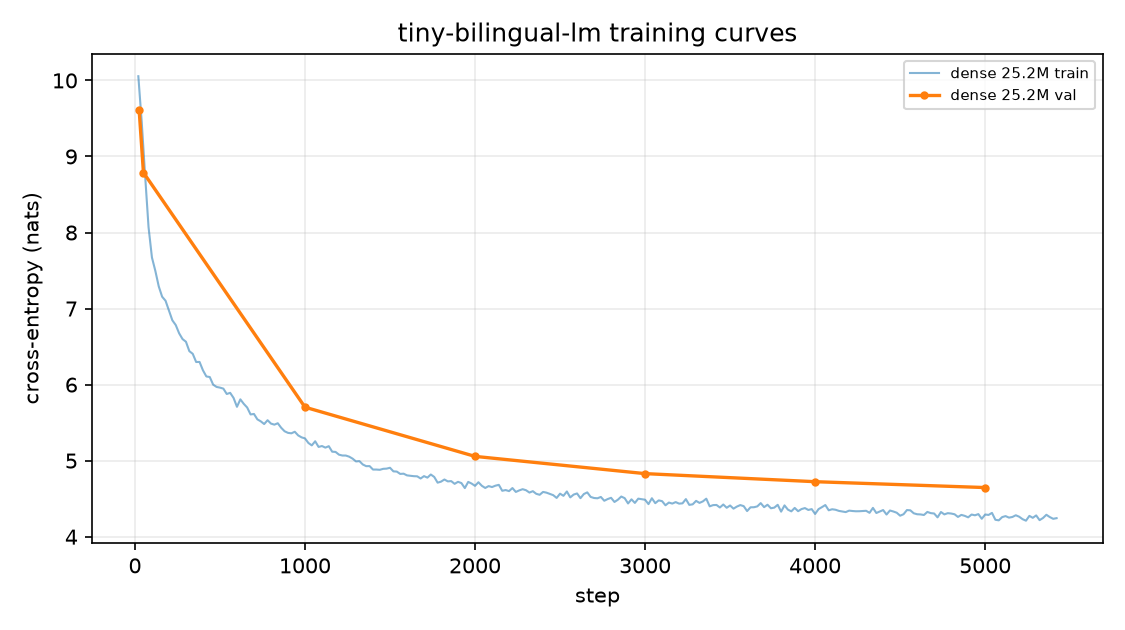
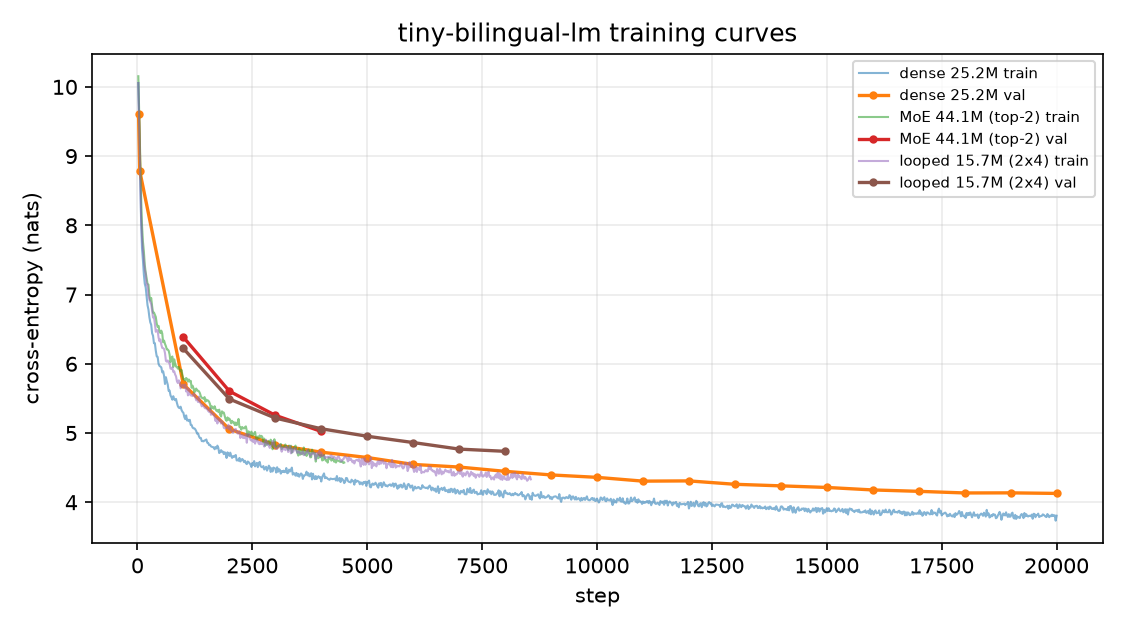
results: looped done, equal-token comparison table, README summary

diff --git a/README.md b/README.md
@@ -23,9 +23,21 @@ https://useosc.github.io/tiny-bilingual-lm/
 | packed data | 496 M train + 4 M val tokens (uint16), zh:en = 50:50 | done |
 | dense 25M | 25.2 M params, 512 ctx, 492 M tokens | **done**: val 4.098 / ppl 60.2 / BPB 1.349 |
 | MoE 4-expert | 44.1 M total params, top-2 routing + aux loss | done: val 5.069 at 49 M tokens (dense at same tokens: 5.056) |
-| looped | 2 unique layers x 4 loops (15.7 M params, 8 effective layers) | training |
+| looped | 2 unique layers x 4 loops (15.7 M params, 8 effective layers) | done: val 4.763 at 131 M tokens |
 | demo | ONNX int8 (72.5 MB) + static chat page, final dense model | **live** |
 | docs | 8 design docs with citations | done |
+
+## Results (one RTX 4050 Laptop, 6 GB)
+
+| run | params | tokens | val loss | ppl | bits/byte |
+|---|---|---|---|---|---|
+| dense | 25.2 M | 492 M | **4.098** | 60.2 | 1.349 |
+| MoE (4 experts, top-2) | 44.1 M (29.9 M active) | 49 M | 5.069 | 159.0 | 1.669 |
+| looped (2 x 4) | 15.7 M | 131 M | 4.763 | 117.1 | 1.568 |
+
+At equal tokens (~49 M) dense 5.056 ≈ MoE 5.069 > looped 5.216: at this scale
+neither MoE nor recurrence beats a plain dense model per token; MoE costs ~2x
+compute and looped saves ~38% parameters. Details in [docs/08-results.md](docs/08-results.md).
 
 ## Quick start
 

diff --git a/docs/08-results.md b/docs/08-results.md
@@ -36,9 +36,30 @@ crops; BPB uses 4.382 bytes/token.
 |---|---|
 | params | 15,730,560 |
 | effective depth | 8 |
-| tokens seen | (from budget) |
-| val loss | (filled) |
-| bits per byte | (filled) |
+| tokens seen | 131 M (8 000 steps) |
+| val loss | 4.763 |
+| bits per byte | 1.568 |
+| throughput | 16–47 k tokens/s (fewer params → faster per step) |
+
+## Comparison at equal tokens
+
+| tokens seen | dense 25.2 M | MoE 44.1 M | looped 15.7 M |
+|---|---|---|---|
+| ~49 M | 5.056 | 5.069 | 5.216 |
+| ~98 M | 4.724 | – | 4.862 |
+| ~131 M | 4.60 (interp.) | – | 4.763 |
+
+Honest reading:
+
+* **MoE did not pay off** at this scale: equal-token quality matches dense while
+  costing ~1.75× parameters and ~2× compute per token. With only 49 M tokens,
+  routing never gets enough data. This matches the known "MoE needs large token
+  budgets" result (Switch/Mixtral train on trillions).
+* **Looped is consistently worse at equal tokens** (5.22 vs 5.06 and 4.86 vs
+  4.72) but uses 38 % fewer parameters and trains ~1.5× faster per step. In
+  other words recurrence buys parameter savings, not free quality — at 15 M
+  scale the extra depth is not enough to compensate for the smaller embedding
+  and FFN budget.
 
 ## Qualitative samples
 

diff --git a/docs/05-evaluation.md b/docs/05-evaluation.md
@@ -27,9 +27,9 @@ Results land in `eval/results/*.json`.
 
 | run | params | tokens seen | val loss | ppl | bpb | tok/s (train) |
 |---|---|---|---|---|---|---|
-| dense_25m | 25.2 M | 492 M | 4.098 | 60.2 | 1.349 | ~20 000 (peak) |
-| moe_4e | 44.1 M (29.9 M active) | 49 M (4 000 steps) | 5.069 | 159.0 | 1.669 | ~6–10 k |
-| looped_16m | 15.7 M | (filling) | | | | |
+| dense_25m | 25.2 M | 492 M | 4.098 | 60.2 | 1.349 | 17–29 k |
+| moe_4e | 44.1 M (29.9 M active) | 49 M (4 000 steps) | 5.069 | 159.0 | 1.669 | 6–10 k |
+| looped_16m | 15.7 M | 131 M (8 000 steps) | 4.763 | 117.1 | 1.568 | 16–47 k |
 
 ## What "good" looks like here
 
